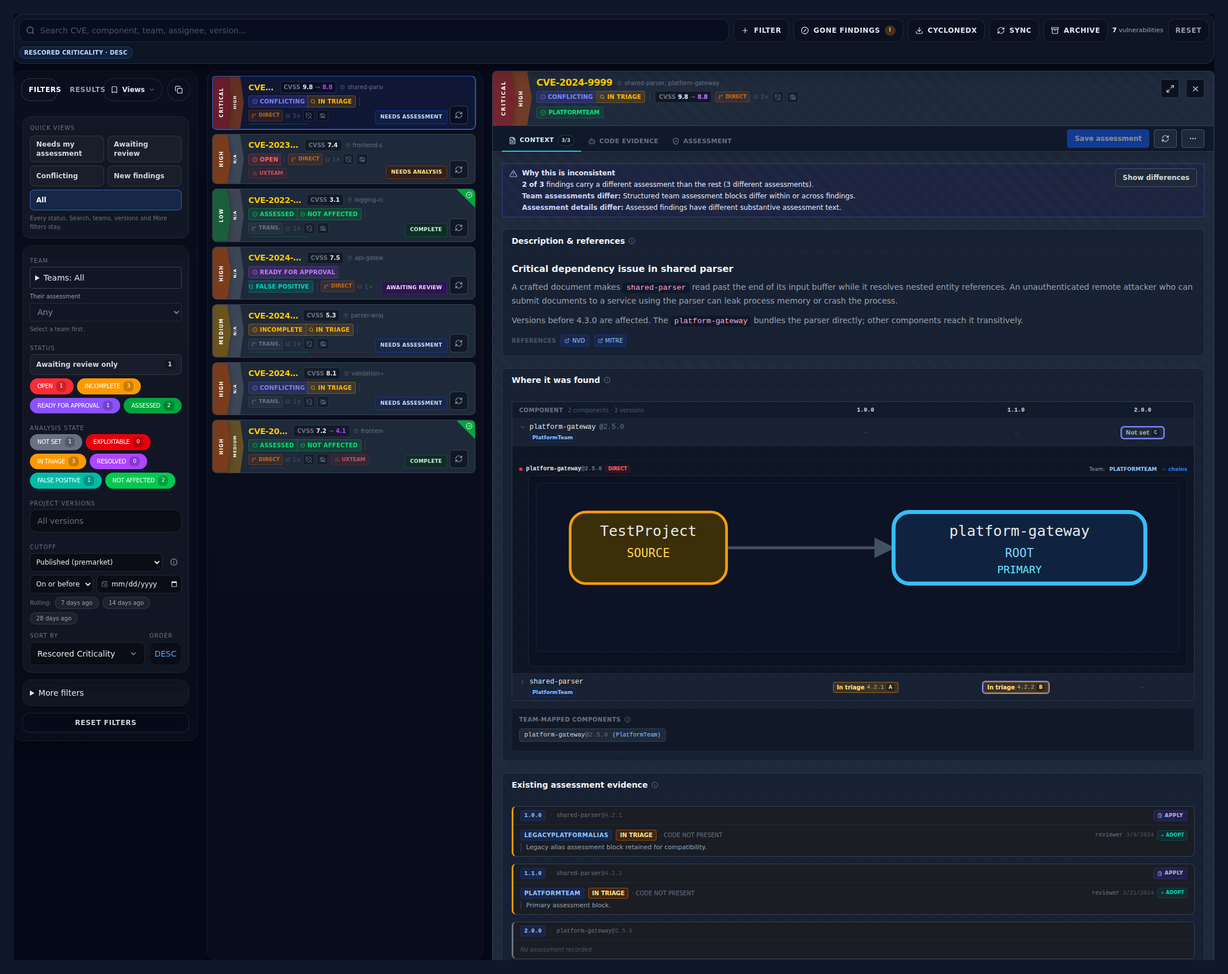
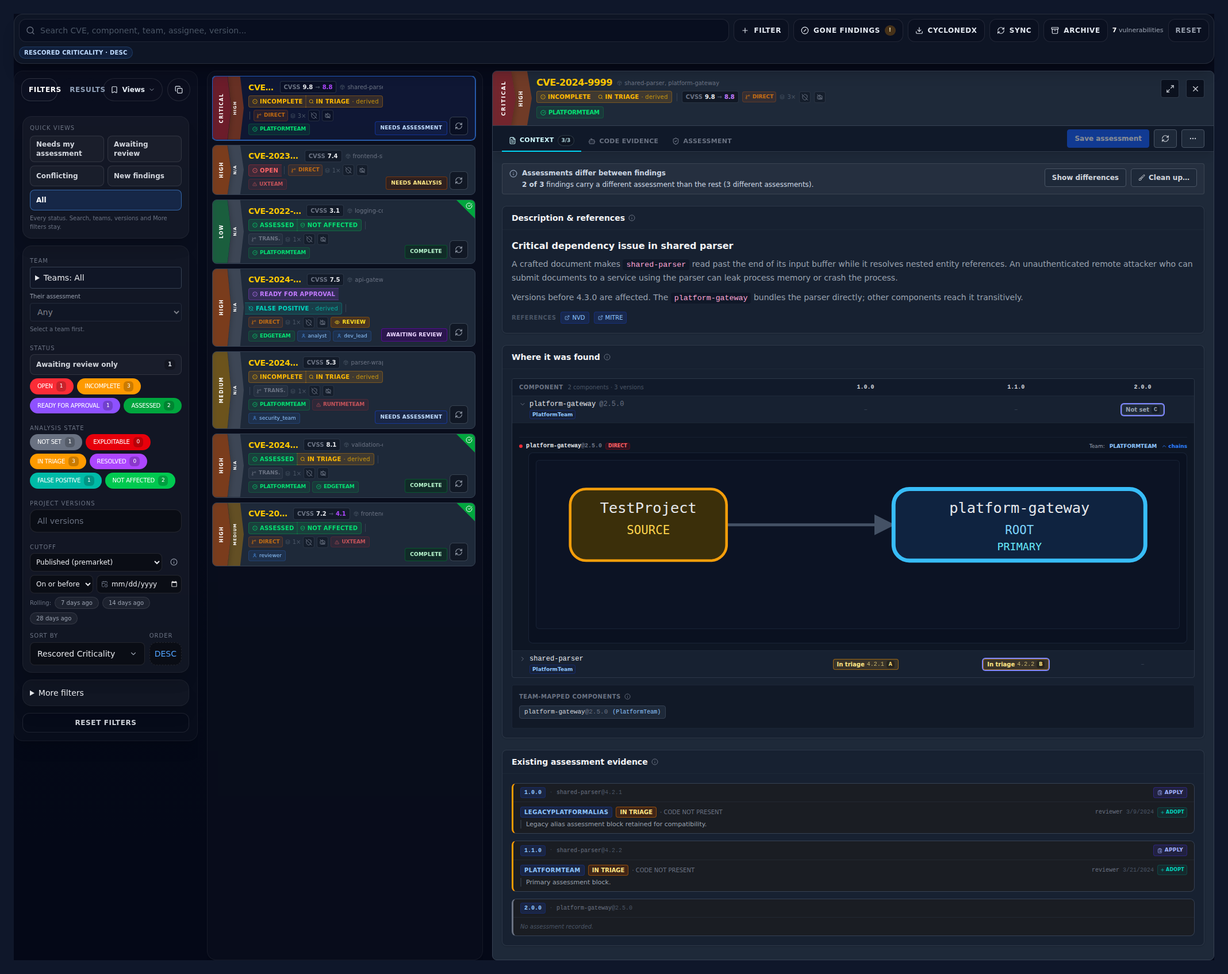
fix(ui): keep vulnerability card content visible (#362)
Keep the vulnerability detail tabs and actions visible while the card scrolls. Put Global and team selection above the advisory summary and let the differences banner wrap on narrow cards.

Let compact list cards wrap the team badges, including when the desktop inspector is open. Move the list controls below the badges when the card is too narrow to place them alongside.

Verified with 1,280 frontend unit tests, 45 focused browser tests across Chromium, Firefox, and WebKit, and six documentation captures. The new browser coverage checks short viewports, switching tabs without losing a draft, and eight team badges in the list and expanded assessment.

diff --git a/frontend/src/components/VulnGroupCard.vue b/frontend/src/components/VulnGroupCard.vue
@@ -569,6 +569,7 @@ const onAssigneeInput = () => {
 
 const headerEl = ref<HTMLElement | null>(null)
 const detailsEl = ref<HTMLElement | null>(null)
+const cardEl = ref<HTMLElement | null>(null)
 // The two panes of the assessment workspace; plain wrappers in tab mode.
 const contextPaneEl = ref<HTMLElement | null>(null)
 const assessmentPaneEl = ref<HTMLElement | null>(null)
@@ -2565,7 +2566,14 @@ const setDetailTab = (tab: DetailTab, preserveReviewTeam = false) => {
     if (tab === 'review' && !preserveReviewTeam) autoSelectReviewTeam()
     activeDetailTab.value = tab
     nextTick(() => {
-        detailsEl.value?.scrollTo?.({ top: 0, behavior: 'smooth' })
+        const details = detailsEl.value
+        const card = cardEl.value
+        if (props.inModal && card && details) {
+            // Reset the tab's content without scrolling away a visible header.
+            card.scrollTop = Math.min(card.scrollTop, details.offsetTop)
+        } else {
+            details?.scrollTo?.({ top: 0, behavior: 'smooth' })
+        }
     })
 }
 
@@ -3212,7 +3220,16 @@ watch(() => [props.group?.id, vulnTaskId.value, isReviewer.value, historyRefresh
 </script>
 
 <template>
-    <div :class="['vuln-card relative border rounded-lg transition-colors', inModal ? 'overflow-hidden' : (expanded ? 'overflow-visible z-40' : 'overflow-hidden'), isWorkspace ? 'flex h-full flex-col' : '', cardStyle]">
+    <div
+        ref="cardEl"
+        class="vuln-card relative rounded-lg border transition-colors"
+        :class="[
+            isWorkspace ? 'flex h-full flex-col overflow-hidden'
+                : inModal ? 'h-full min-h-0 overflow-y-auto overscroll-contain'
+                : expanded ? 'overflow-visible z-40' : 'overflow-hidden',
+            cardStyle,
+        ]"
+    >
     <!-- Criticality Badges — header-height only -->
     <div
         class="absolute top-0 left-0 z-20 pointer-events-none flex"
@@ -3331,12 +3348,12 @@ watch(() => [props.group?.id, vulnTaskId.value, isReviewer.value, historyRefresh
         ref="detailsEl"
         :class="isWorkspace
             ? 'flex min-h-0 flex-1 flex-col overflow-hidden px-4 border-t border-gray-700'
-            : 'px-4 pb-4 border-t border-gray-700 overflow-y-auto'"
-        :style="inModal ? {} : { maxHeight: detailsMaxHeight }"
+            : ['px-4 pb-4 border-t border-gray-700', !inModal && 'overflow-y-auto']"
+        :style="inModal ? undefined : { maxHeight: detailsMaxHeight }"
     >
         <div data-vuln-card-sticky-nav class="sticky top-0 z-30 -mx-4 mb-5 border-b border-gray-700/80 bg-gray-900/95 px-4 shadow-lg backdrop-blur" :class="isWorkspace ? 'shrink-0' : ''">
             <div class="-mx-4 flex flex-wrap items-end gap-2 px-4">
-                <div class="flex min-w-0 flex-1 flex-wrap items-end" role="tablist" aria-label="Vulnerability detail sections">
+                <div class="flex min-w-0 grow basis-[min(100%,22rem)] flex-wrap items-end" role="tablist" aria-label="Vulnerability detail sections">
                     <button
                         v-for="tab in visibleDetailTabs"
                         :key="tab.id"
@@ -3374,7 +3391,7 @@ watch(() => [props.group?.id, vulnTaskId.value, isReviewer.value, historyRefresh
                     <Loader2 v-else :size="12" class="animate-spin" />
                     {{ assessmentPersistenceStatus.label }}
                 </div>
-                <div class="my-1.5 flex shrink-0 items-center gap-2" data-testid="assessment-actions">
+                <div class="my-1.5 flex max-w-full flex-wrap items-center gap-2" data-testid="assessment-actions">
                     <button
                         v-if="canApprove"
                         type="button"
@@ -3540,13 +3557,13 @@ watch(() => [props.group?.id, vulnTaskId.value, isReviewer.value, historyRefresh
                 : 'border-white/10 bg-white/[0.03] text-slate-300'"
             role="status"
         >
-            <div class="flex min-w-0 flex-1 items-start gap-2">
+            <div class="flex min-w-0 grow basis-[min(100%,20rem)] items-start gap-2">
                 <!-- Only an inconsistency is a warning. Findings that carry
                      different assessments (teams or versions decide
                      differently) are expected and only noted. -->
                 <AlertTriangle v-if="inconsistencyIssues.length > 0" :size="14" class="mt-0.5 shrink-0 text-indigo-300" />
                 <Info v-else :size="14" class="mt-0.5 shrink-0 text-slate-400" />
-                <div class="min-w-0 space-y-1">
+                <div class="min-w-0 space-y-1 [overflow-wrap:anywhere]">
                     <div :class="inconsistencyIssues.length > 0 ? 'font-bold' : 'font-semibold'">
                         {{ inconsistencyIssues.length > 0 ? 'Why this is inconsistent' : 'Assessments differ between findings' }}
                     </div>
@@ -3802,26 +3819,6 @@ watch(() => [props.group?.id, vulnTaskId.value, isReviewer.value, historyRefresh
             class="space-y-3"
             :role="isWorkspace ? 'region' : 'tabpanel'"
         >
-            <VulnAboutSummary
-                :vulnId="group.id"
-                :title="group.title"
-                :description="group.description"
-                :cwes="group.cwes"
-                :recommendation="group.recommendation"
-                :cvssVector="group.cvss_vector"
-                :components="uniqueComponents"
-                :projectVersions="visibleProjectVersions"
-                :links="externalLinks"
-                :collapsed="isWorkspace"
-            />
-            <div
-                v-if="codeAnalysisDraftApplied"
-                data-testid="code-analysis-draft-banner"
-                class="rounded border border-cyan-700/40 bg-cyan-950/20 px-3 py-2 text-xs text-cyan-200"
-            >
-                {{ codeAnalysisDraftSummary || 'Code analysis draft loaded into the assessment fields.' }}
-                Review and {{ isReviewer ? 'save' : 'submit' }} when ready.
-            </div>
             <div class="h-fit space-y-4">
                     <!-- Who assesses: the Global or a team assessment. The tabs
                          are the heading; the scope note only says what the team
@@ -3857,7 +3854,7 @@ watch(() => [props.group?.id, vulnTaskId.value, isReviewer.value, historyRefresh
                                     @click="chooseTeamTab(team)"
                                     :aria-pressed="selectedTeam === team ? 'true' : 'false'"
                                     :class="[
-                                        '-mb-px px-3 py-1.5 text-xs font-semibold border-b-2 transition-colors cursor-pointer',
+                                        '-mb-px max-w-full px-3 py-1.5 text-left text-xs font-semibold border-b-2 transition-colors cursor-pointer [overflow-wrap:anywhere]',
                                         selectedTeam === team
                                             ? 'border-blue-500 text-blue-300 bg-blue-950/20'
                                             : 'border-transparent text-gray-500 hover:text-gray-300'
@@ -3996,6 +3993,27 @@ watch(() => [props.group?.id, vulnTaskId.value, isReviewer.value, historyRefresh
                             @show-former="showFormerTeamAssessments"
                         />
                     </section>
+
+                    <VulnAboutSummary
+                        :vulnId="group.id"
+                        :title="group.title"
+                        :description="group.description"
+                        :cwes="group.cwes"
+                        :recommendation="group.recommendation"
+                        :cvssVector="group.cvss_vector"
+                        :components="uniqueComponents"
+                        :projectVersions="visibleProjectVersions"
+                        :links="externalLinks"
+                        :collapsed="isWorkspace"
+                    />
+                    <div
+                        v-if="codeAnalysisDraftApplied"
+                        data-testid="code-analysis-draft-banner"
+                        class="rounded border border-cyan-700/40 bg-cyan-950/20 px-3 py-2 text-xs text-cyan-200"
+                    >
+                        {{ codeAnalysisDraftSummary || 'Code analysis draft loaded into the assessment fields.' }}
+                        Review and {{ isReviewer ? 'save' : 'submit' }} when ready.
+                    </div>
 
                     <DetailSection
                         title="Decision & rationale"

diff --git a/frontend/e2e/assessment-workspace.spec.ts b/frontend/e2e/assessment-workspace.spec.ts
@@ -238,12 +238,70 @@ test.describe('Assessment workspace', () => {
         expect(errors).toEqual([]);
     });
 
-    test('summarises the vulnerability above the form, folded in the workspace', async ({ page }) => {
+    for (const width of [430, 1440]) {
+        test(`keeps team selection and assessment actions reachable at ${width}×560`, async ({ page }) => {
+            await page.setViewportSize({ width, height: 560 });
+            const inspector = await selectVulnerability(page);
+            const nav = inspector.locator('[data-vuln-card-sticky-nav]');
+            const lastParagraph = inspector.getByTestId('vuln-description').getByText(/Paragraph 12 of the advisory/);
+            await lastParagraph.scrollIntoViewIfNeeded();
+            await expect(nav).toBeInViewport({ ratio: 1 });
+
+            await nav.getByRole('tab', { name: /Assessment/ }).click();
+            const team = inspector.getByTestId('review-team-tab').filter({ hasText: 'Security' });
+            await expect(team).toBeInViewport({ ratio: 1 });
+            await team.click();
+            await expect(team).toHaveAttribute('aria-pressed', 'true');
+
+            const rationale = inspector.locator('#analysis-details-textarea');
+            await rationale.scrollIntoViewIfNeeded();
+            await rationale.fill('Reviewed for Security.');
+            await expect(rationale).toBeInViewport();
+            await expect(nav.getByTestId('assessment-actions')).toBeInViewport({ ratio: 1 });
+            await nav.getByRole('tab', { name: /Context/ }).click();
+            await nav.getByRole('tab', { name: /Assessment/ }).click();
+            await expect(team).toBeInViewport({ ratio: 1 });
+            await expect(rationale).toHaveValue('Reviewed for Security.');
+        });
+    }
+
+    test('shows every team in a compact card before and after opening the desktop inspector', async ({ page }) => {
+        const teams = [
+            'Application Security', 'Client Platform', 'Database Reliability', 'Embedded Systems',
+            'Infrastructure', 'Release Engineering', 'Security', 'System Verification',
+        ];
+        const group = {
+            ...workspaceGroup,
+            tags: teams,
+            affected_versions: workspaceGroup.affected_versions.map(version => ({
+                ...version,
+                components: version.components.map(component => ({ ...component, tags: teams })),
+            })),
+        };
+        await mockGroupedVulnTask(page, { taskId: 'task-ws', groups: [group] });
+        await page.route('**/api/tasks/task-ws/groups/*', route => route.fulfill(json(group)));
+
+        const row = page.locator(`.vuln-card[data-group-id="${group.id}"]`);
+        const tags = row.getByTestId('team-tag');
+        await page.setViewportSize({ width: 430, height: 900 });
+        await page.goto('/project/TestProject?awaiting_review=false');
+        await expect(tags).toHaveText(teams);
+        for (const tag of await tags.all()) await expect(tag).toBeInViewport({ ratio: 1 });
+
+        await page.setViewportSize({ width: 1440, height: 900 });
+        await row.click();
+        const inspector = page.getByTestId('vuln-detail-inspector');
+        await inspector.getByRole('tab', { name: /Assessment/ }).click();
+        await expect(inspector.getByTestId('review-team-tab')).toHaveText(teams);
+        for (const tag of await tags.all()) await expect(tag).toBeInViewport({ ratio: 1 });
+    });
+
+    test('summarises the vulnerability before the decision, folded in the workspace', async ({ page }) => {
         const errors = collectConsoleErrors(page);
         await page.setViewportSize({ width: 1440, height: 900 });
         const inspector = await selectVulnerability(page);
 
-        // The Assessment tab starts with the summary, open, then the decision.
+        // The summary is open in the Assessment tab.
         await inspector.getByRole('tab', { name: /Assessment/ }).click();
         const about = inspector.getByTestId('vuln-about');
         await expect(about).toBeVisible();

diff --git a/frontend/src/components/VulnGroupCardHeader.vue b/frontend/src/components/VulnGroupCardHeader.vue
@@ -332,7 +332,7 @@ const componentSummary = computed(() => {
       </div>
 
       <!-- Status row: lifecycle | analysis state | meta -->
-      <div :class="['flex items-center flex-wrap', compact ? 'gap-1 mt-1 max-h-[3.1rem] overflow-hidden' : 'gap-1.5 mt-1.5']">
+      <div :class="['flex items-center flex-wrap', compact ? 'mt-1 gap-1' : 'mt-1.5 gap-1.5']">
         <!-- Lifecycle group -->
         <span :class="['inline-flex items-center gap-1 px-1.5 py-0.5 rounded-l text-[10px] font-bold uppercase tracking-wide border-y border-l shrink-0', lifecycleClass]" data-testid="lifecycle-badge" :title="lifecycleTooltip">
           <CircleDot :size="9" />
@@ -489,15 +489,15 @@ const componentSummary = computed(() => {
           <span
             v-for="tag in normalizedTags"
             :key="tag"
-            class="inline-flex items-center gap-1 px-1.5 py-0.5 rounded text-[9px] font-bold uppercase tracking-tight transition-all border"
+            class="inline-flex max-w-full items-center gap-1 rounded border px-1.5 py-0.5 text-[9px] font-bold uppercase tracking-tight transition-all [overflow-wrap:anywhere]"
             :class="assessedTeams.has(tag)
               ? 'bg-green-500/10 text-green-400 border-green-500/20'
               : 'bg-red-500/8 text-red-400/70 border-red-500/15'"
             data-testid="team-tag"
           >
-            <CheckCircle v-if="assessedTeams.has(tag)" :size="9" class="text-green-400" />
-            <AlertTriangle v-else :size="8" class="text-red-400/60" />
-            {{ tag }}
+            <CheckCircle v-if="assessedTeams.has(tag)" :size="9" class="shrink-0 text-green-400" />
+            <AlertTriangle v-else :size="8" class="shrink-0 text-red-400/60" />
+            <span class="min-w-0">{{ tag }}</span>
           </span>
 
           <span
@@ -526,15 +526,15 @@ const componentSummary = computed(() => {
         <span
           v-for="tag in normalizedTags"
           :key="tag"
-          class="inline-flex items-center gap-1 px-1.5 py-0.5 rounded text-[10px] font-bold uppercase tracking-tight transition-all border"
+          class="inline-flex max-w-full items-center gap-1 rounded border px-1.5 py-0.5 text-[10px] font-bold uppercase tracking-tight transition-all [overflow-wrap:anywhere]"
           :class="assessedTeams.has(tag)
             ? 'bg-green-500/10 text-green-400 border-green-500/20'
             : 'bg-red-500/8 text-red-400/70 border-red-500/15'"
           data-testid="team-tag"
         >
-          <CheckCircle v-if="assessedTeams.has(tag)" :size="10" class="text-green-400" />
-          <AlertTriangle v-else :size="9" class="text-red-400/60" />
-          {{ tag }}
+          <CheckCircle v-if="assessedTeams.has(tag)" :size="10" class="shrink-0 text-green-400" />
+          <AlertTriangle v-else :size="9" class="shrink-0 text-red-400/60" />
+          <span class="min-w-0">{{ tag }}</span>
         </span>
       </div>
 

diff --git a/frontend/src/components/VulnRowCompact.vue b/frontend/src/components/VulnRowCompact.vue
@@ -115,7 +115,7 @@ const workflowStateClass = computed(() => ({
 
 <template>
     <div
-        :class="['vuln-card relative min-h-[5rem] border rounded-lg transition-colors overflow-hidden cursor-pointer hover:brightness-110', cardStyle]"
+        :class="['vuln-card @container relative min-h-[5rem] border rounded-lg transition-colors overflow-hidden cursor-pointer hover:brightness-110', cardStyle]"
         :data-group-id="group.id"
         :aria-selected="selected ? 'true' : 'false'"
         @click="handleClick"
@@ -164,7 +164,7 @@ const workflowStateClass = computed(() => ({
 
         <!-- Header row -->
         <div
-            class="relative flex min-h-[5rem] items-start gap-2 overflow-hidden py-2 pl-[62px] pr-40"
+            class="relative flex min-h-[5rem] items-start gap-2 overflow-hidden pb-11 pl-[62px] pr-3 pt-2 @min-[26rem]:py-2 @min-[26rem]:pr-40"
             data-testid="compact-vulnerability-header"
         >
             <div class="min-w-0 flex-1">

diff --git a/frontend/src/components/__tests__/VulnRowCompact.spec.ts b/frontend/src/components/__tests__/VulnRowCompact.spec.ts
@@ -48,7 +48,7 @@ describe('VulnRowCompact', () => {
         expect(wrapper.emitted('reload')).toEqual([[group]])
         expect(wrapper.emitted('select')).toBeUndefined()
         expect(wrapper.get('[data-testid="compact-vulnerability-header"]').classes())
-            .toEqual(expect.arrayContaining(['relative', 'min-h-[5rem]', 'pr-40']))
+            .toEqual(expect.arrayContaining(['relative', 'min-h-[5rem]', 'pb-11', '@min-[26rem]:pr-40']))
         expect(wrapper.get('[data-testid="reload-vulnerability"]').classes())
             .toEqual(expect.arrayContaining(['absolute', 'bottom-2', 'right-3']))
         expect(wrapper.get('[data-testid="workflow-state-badge"]').text()).toBe('Needs mapping')

diff --git a/frontend/src/components/__tests__/VulnGroupCard.spec.ts b/frontend/src/components/__tests__/VulnGroupCard.spec.ts
@@ -700,7 +700,7 @@ describe('VulnGroupCard', () => {
 
         const review = wrapper.get(`#vuln-${mockGroup.id}-detail-panel-review`)
         const about = review.get('[data-testid="vuln-about"]')
-        // First in the form, before the scope and the decision.
+        // The advisory summary remains above the decision.
         expect(review.element.querySelector('[data-testid="vuln-about"]')!
             .compareDocumentPosition(review.get('[data-testid="assessment-decision-section"]').element)
             & Node.DOCUMENT_POSITION_FOLLOWING).toBeTruthy()

diff --git a/frontend/src/components/VulnDetailInspector.vue b/frontend/src/components/VulnDetailInspector.vue
@@ -177,9 +177,7 @@ defineExpose({
             :tabindex="workspaceActive ? -1 : undefined"
         >
             <div
-                :class="workspaceActive
-                    ? 'flex min-h-0 grow flex-col overflow-hidden'
-                    : 'min-h-0 grow overflow-y-auto overscroll-contain'"
+                class="flex min-h-0 grow flex-col overflow-hidden"
             >
                 <VulnGroupCard
                     ref="cardRef"

diff --git a/frontend/src/components/VulnDetailModal.vue b/frontend/src/components/VulnDetailModal.vue
@@ -252,7 +252,7 @@ const vulnId = computed(() => props.entry.group.id)
             </div>
 
             <!-- Content: full VulnGroupCard in modal mode -->
-            <div class="min-h-0 grow overflow-y-auto overscroll-contain">
+            <div class="flex min-h-0 grow flex-col overflow-hidden">
                 <VulnGroupCard
                     :group="entry.group"
                     :inModal="true"

diff --git a/docs/screens.md b/docs/screens.md
@@ -105,7 +105,7 @@ The Context tab uses three clearly separated sections in a fixed reading order: 
 
 ![Assessment tab of a team](screenshots/vuln-card-team-assessment.png)
 
-The Assessment tab starts with **About this vulnerability**: the title, the first three lines of the description as plain text (sanitised like the Context rendering; **Show more** expands it in place) and the key facts on one line: the affected components and versions in scope, what an attacker needs according to the CVSS vector (for example "network, low complexity, no privileges, no user interaction"), the CWE, the source's fix advice and the references. The block folds to one line. Below it are the Global and team tabs with the component of the selected team and who assessed it last, then the decision and rationale. On the Global tab, reviewers see the [team overview](#team-overview) above the form. Below the decision, **Show generated text** (reviewers, collapsed) shows the stored text read-only with **Copy**; it is generated from the fields and is what is exported, so it is not editable. **More** → **Clean up assessment…** opens the [cleanup](#assessment-cleanup); **More** → **Clear assessment…** in the action bar clears the open team's or the Global assessment, or the whole of it (see [Review workflows](review-workflows.md)), after a confirmation naming the findings, components and versions.
+The Assessment tab starts with the Global and team tabs, the selected team's affected components and the last assessor. **About this vulnerability** shows the title, the first three lines of the description as plain text (sanitised like the Context rendering; **Show more** expands it in place) and the key facts on one line: the affected components and versions in scope, what an attacker needs according to the CVSS vector (for example "network, low complexity, no privileges, no user interaction"), the CWE, the source's fix advice and the references. The summary folds to one line. The decision and rationale follow, and the tabs and actions stay visible while scrolling. On the Global tab, reviewers see the [team overview](#team-overview) above the advisory summary. Below the decision, **Show generated text** (reviewers, collapsed) shows the stored text read-only with **Copy**; it is generated from the fields and is what is exported, so it is not editable. **More** → **Clean up assessment…** opens the [cleanup](#assessment-cleanup); **More** → **Clear assessment…** in the action bar clears the open team's or the Global assessment, or the whole of it (see [Review workflows](review-workflows.md)), after a confirmation naming the findings, components and versions.
 
 ![Clear assessment](screenshots/clear-assessment.png) While something required is missing, the decision section says what ("Still needed to submit: analysis details"); the Submit button is enabled once nothing is missing. The CWE and the fix advice are the ones Dependency-Track serves with the finding (`cwes`, `recommendation` of each grouped vulnerability).
 
@@ -129,7 +129,7 @@ The header line sums it up, for example "4 teams: 2 Not affected, 1 Exploitable 
 
 ![Assessment workspace](screenshots/assessment-workspace.png)
 
-From a viewport of 1280px, the header of the vulnerability detail has a workspace button next to Close. It opens the same card full screen, with the context on the left and the assessment form always visible on the right; the action bar with Save or Submit, Approve, Reload and More spans both columns. The left pane shows the differences banner and either Context or Code Evidence, chosen by the two remaining tabs. The two panes scroll on their own, so the evidence can be read while the decision, rationale and review checks are filled in. The form starts with the heading that carries its status (its tooltip says that the context is on the left and saving is in the action bar) and the vulnerability summary folded to one line, since the Context pane shows the full description; one click opens it.
+From a viewport of 1280px, the header of the vulnerability detail has a workspace button next to Close. It opens the same card full screen, with the context on the left and the assessment form always visible on the right; the action bar with Save or Submit, Approve, Reload and More spans both columns. The left pane shows the differences banner and either Context or Code Evidence, chosen by the two remaining tabs. The two panes scroll on their own, so the evidence can be read while the decision, rationale and review checks are filled in. The form starts with its status heading and the Global or team tabs. The vulnerability summary starts folded because the Context pane shows the full description.
 
 Show differences opens the comparison in the left pane. Apply, Adopt, Use for all findings and the analyzer's apply actions fill the form without changing the left pane: the decision section scrolls into view and is briefly highlighted.
 
@@ -167,7 +167,7 @@ The expanded assessment form supports assigning users with known-user suggestion
 
 ![Review context](screenshots/vuln-card-review-context.png)
 
-The Assessment tab uses the same section hierarchy as Context and Code Evidence: the vulnerability summary, the Global or team tabs (on Global, the team overview), then the decision and rationale. With a Team filter, analysts see only that team's subview ("Other teams are hidden by the team filter"); reviewers start focused on it and can explicitly reveal Global and all-team controls with **Show all teams**. Team subviews present the latest scoped analyzer result as an optional proposal, while saved or manually edited team assessments remain authoritative. The reviewer-only Global subview shows the team overview with the worst effective state across team decisions and analyzer fallbacks, and also contains CVSS and rescoring, after the decision fields, so the score and assessment can be evaluated together. Ticket references are marked required only when the current rescored severity is High or Critical.
+The Assessment tab uses the same section hierarchy as Context and Code Evidence: the Global or team tabs (on Global, the team overview), the vulnerability summary, then the decision and rationale. With a Team filter, analysts see only that team's subview ("Other teams are hidden by the team filter"); reviewers start focused on it and can explicitly reveal Global and all-team controls with **Show all teams**. Team subviews present the latest scoped analyzer result as an optional proposal, while saved or manually edited team assessments remain authoritative. The reviewer-only Global subview shows the team overview with the worst effective state across team decisions and analyzer fallbacks, and also contains CVSS and rescoring, after the decision fields, so the score and assessment can be evaluated together. Ticket references are marked required only when the current rescored severity is High or Critical.
 
 ### Conflicting Assessment
 

diff --git a/docs/review-workflows.md b/docs/review-workflows.md
@@ -389,7 +389,7 @@ The detail workspace provides:
 | :--- | :--- |
 | Context | Three ordered sections: advisory and references; where it was found, a matrix of components by project versions with each component's team, the assessment state of each finding and the dependency chains of a component behind its row, and below it the team-mapped components that give those teams; existing assessment evidence |
 | Code Evidence | One list of analyzer runs and agent evidence grouped by component, with source filters; a row opens a reader with provenance, sanitised Markdown, collapsed technical details, and a separate "Apply to the assessment" box; Run analysis and More in the header; the worst case of the latest analyzer results at the bottom. See [Code evidence reader](screens.md#code-evidence-reader) |
-| Assessment | A short summary of the vulnerability (start of the description, affected components and versions, attack conditions from the CVSS vector, CWE, the source's fix advice, references), then the Global or team tabs and the decision and rationale, saved with the actions in the sticky bar; CVSS vector or score edits enable saving; analyzer proposals for team decisions; reviewer-only synchronization for incomplete coverage, with its reasons; why the vulnerability is inconsistent is stated once, in the banner above the tabs; global CVSS/rescoring controls |
+| Assessment | The Global or team tabs, a short advisory summary, then the decision and rationale. The tabs and actions stay visible while the card scrolls; CVSS vector or score edits enable saving; analyzer proposals for team decisions; reviewer-only synchronization for incomplete coverage, with its reasons; why the vulnerability is inconsistent is stated once, in the banner above the tabs; global CVSS/rescoring controls |
 
 From a 1280px wide viewport the detail can also open as a full-screen
 [assessment workspace](screens.md#assessment-workspace): the Context or Code
@@ -401,7 +401,8 @@ the Assessment tab.
 
 Compact vulnerability rows expose the current workflow state, such as mapping
 needed, analysis running, result ready, assessment needed, awaiting review, or
-complete. Inside the card, the tab status badges say what is still missing.
+complete. Team badges wrap when the list narrows. Inside the card, the tab
+status badges say what is still missing.
 
 All actions of a card sit in one place, the sticky bar next to the tabs:
 Approve (reviewers, while a review is pending), Save or Submit, Reload, and the

diff --git a/README.md b/README.md
@@ -240,10 +240,11 @@ draft ([screen](docs/screens.md#settings-team-mapping)). The backend's
 resolved finding tags drive the list and detail views. Mapping edits rerun the
 project query so both views use the same ownership.
 
-The assessment form starts with a short
-[summary of the vulnerability](docs/screens.md#assessment-tab): the start of
-the description, affected components, attack conditions, CWE, fix advice and
-references. From a 1280px wide viewport the vulnerability detail can open a
+Team badges wrap in the vulnerability list, including beside an open detail
+panel. The [assessment form](docs/screens.md#assessment-tab) starts with the team
+selector and Global option for reviewers. The advisory summary and decision
+fields scroll with the card while tabs and actions stay in view. From a
+1280px wide viewport the vulnerability detail can open a
 full-screen [assessment workspace](docs/screens.md#assessment-workspace) with
 the context beside the assessment form.
 
